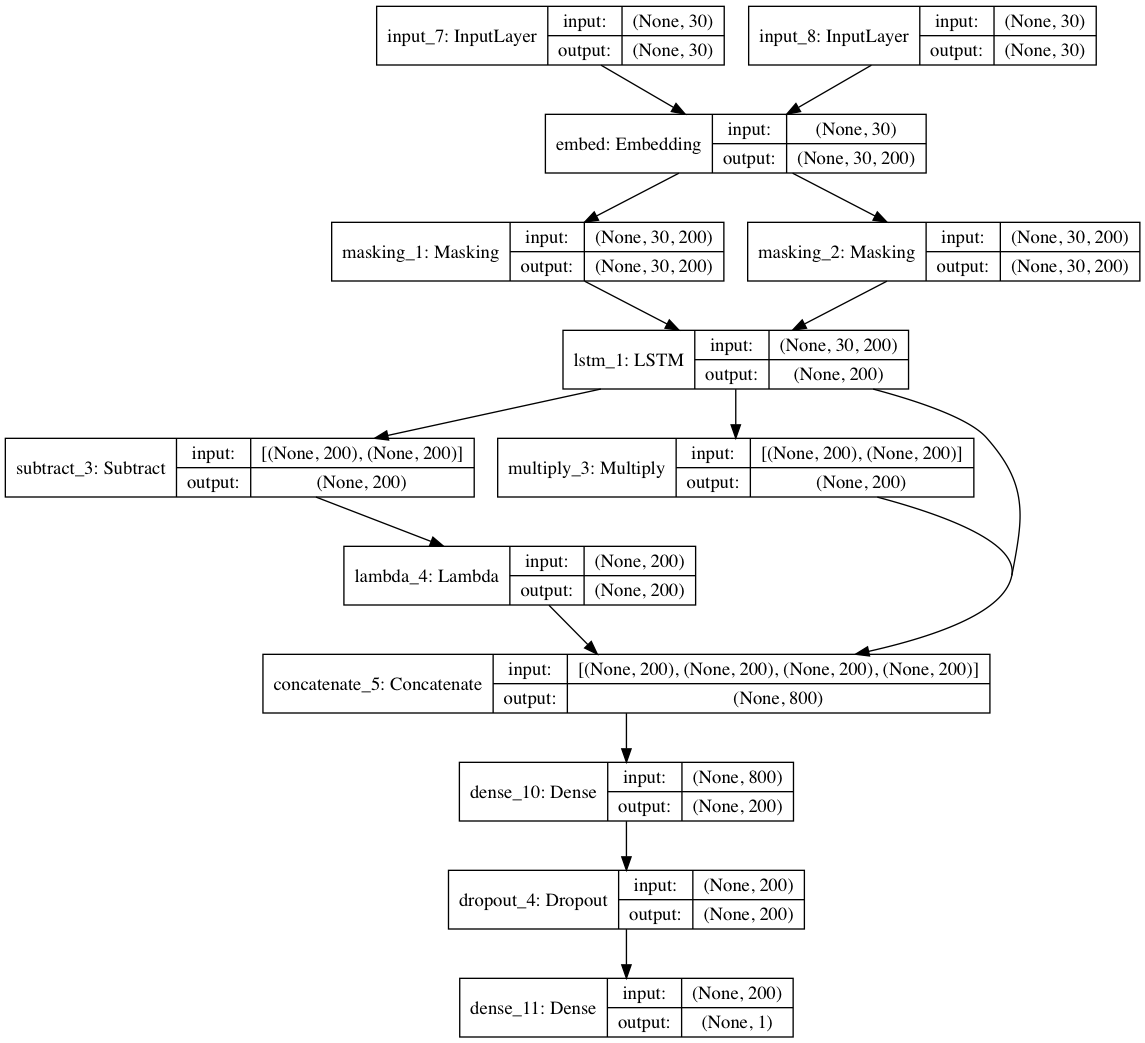
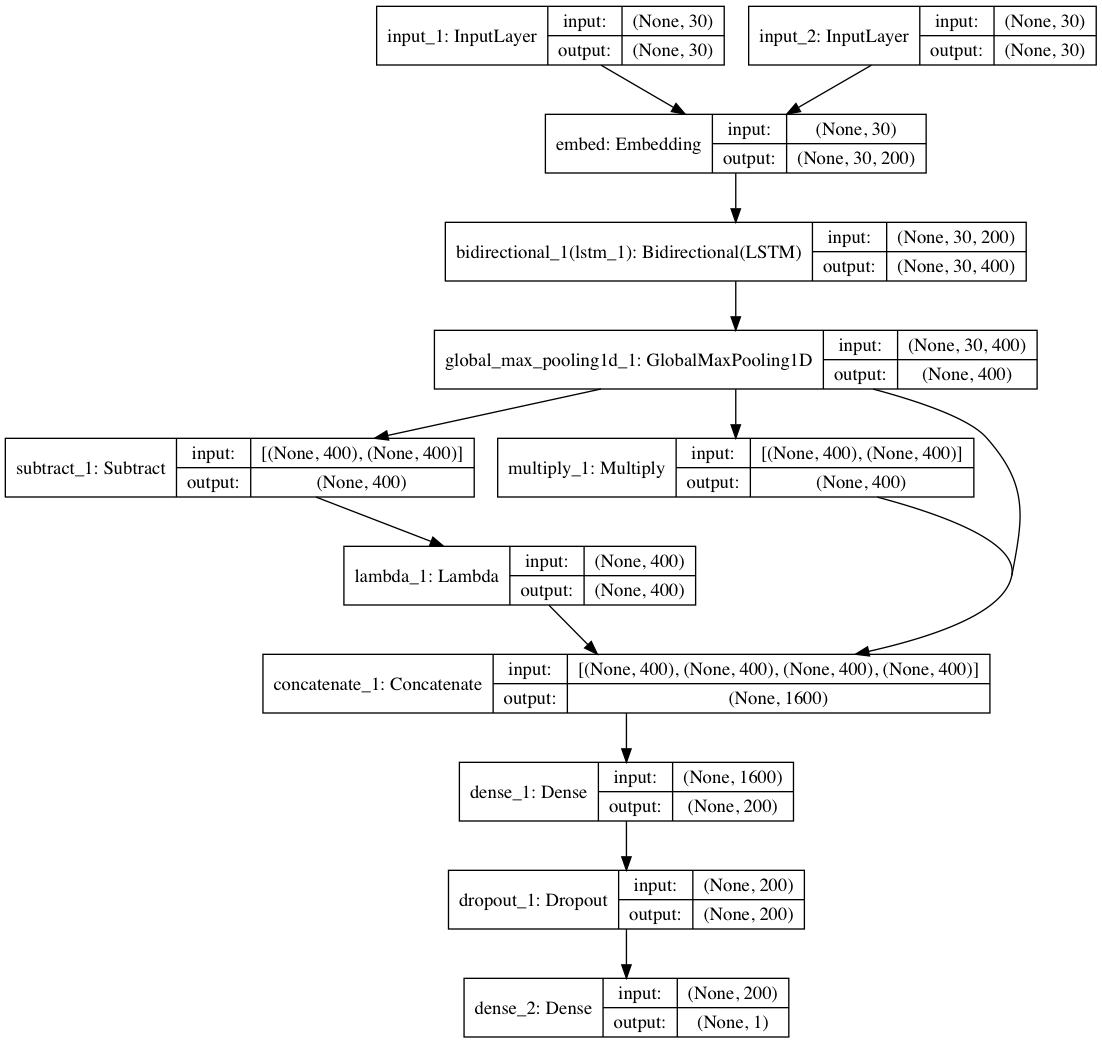
upgrade rnn

diff --git a/nn_arch.py b/nn_arch.py
@@ -1,6 +1,6 @@
 from keras.layers import Dense, SeparableConv1D, SeparableConv2D, LSTM
-from keras.layers import Dropout, GlobalMaxPooling1D, MaxPooling2D, Masking, Lambda
-from keras.layers import Concatenate, Flatten, Reshape, Subtract, Multiply, Dot
+from keras.layers import Dropout, GlobalMaxPooling1D, MaxPooling2D, Bidirectional, Lambda
+from keras.layers import Flatten, Reshape, Subtract, Multiply, Dot, Concatenate
 
 import keras.backend as K
 
@@ -80,13 +80,15 @@ def cnn_2d(embed_input1, embed_input2):
 
 
 def rnn(embed_input1, embed_input2):
-    ra = LSTM(200, activation='tanh')
+    ra = LSTM(200, activation='tanh', return_sequences=True)
+    ba = Bidirectional(ra)
+    mp = GlobalMaxPooling1D()
     da1 = Dense(200, activation='relu')
     da2 = Dense(1, activation='sigmoid')
-    x = Masking()(embed_input1)
-    x = ra(x)
-    y = Masking()(embed_input2)
-    y = ra(y)
+    x = ba(embed_input1)
+    x = mp(x)
+    y = ba(embed_input2)
+    y = mp(y)
     diff = Lambda(lambda a: K.abs(a))(Subtract()([x, y]))
     prod = Multiply()([x, y])
     z = Concatenate()([x, y, diff, prod])
